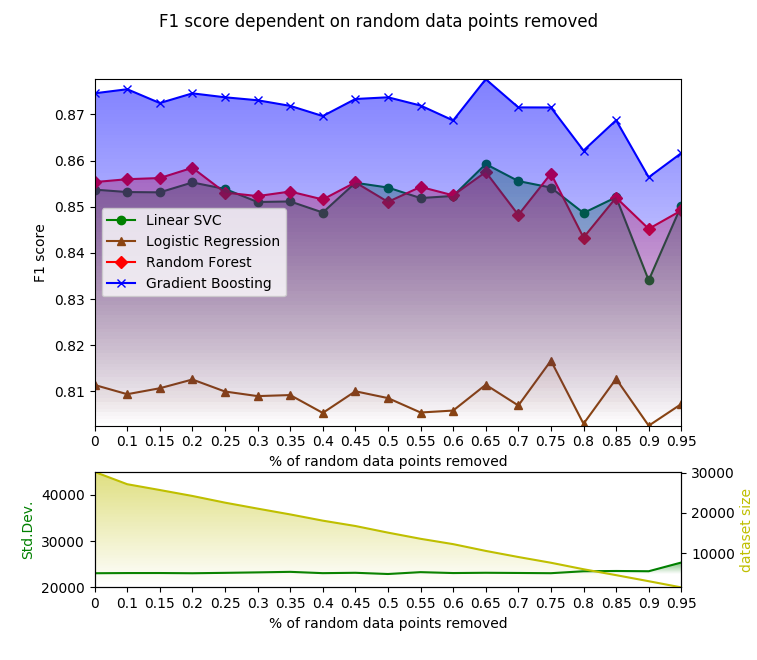
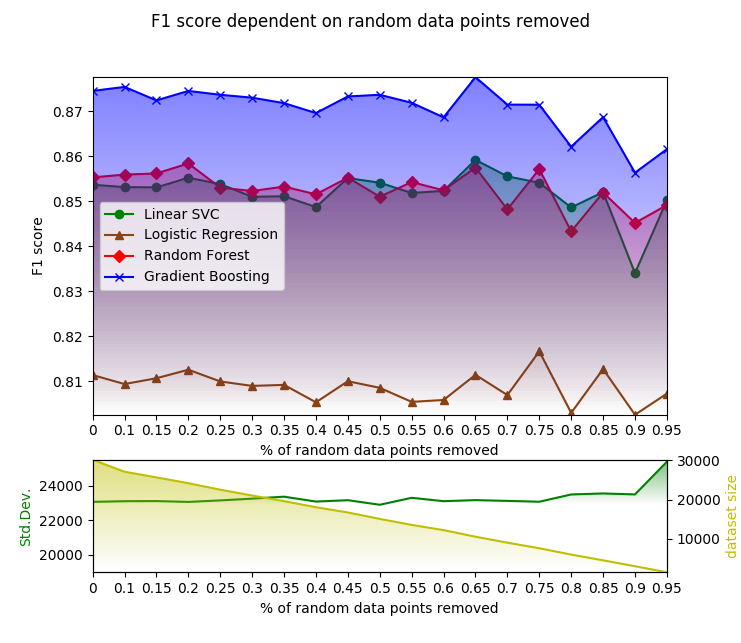
EEEEVEN better plots

diff --git a/src/plots/plotting.py b/src/plots/plotting.py
@@ -217,7 +217,7 @@ def plotOutlierResults(results):
                 label='standard deviation')
   # ax_bottom.plot(std_devs)
 
-  ax_bottom_std.axis([0, max(x), 20000, 45000])
+  ax_bottom_std.axis([0, max(x), 19000, 24000])
   ax_bottom_std.locator_params(nbins=18, axis='x')
   ax_bottom_std.set_xticklabels(x_labels)
   ax_bottom_std.set_xlabel('% of ' + target_label + ' removed')
